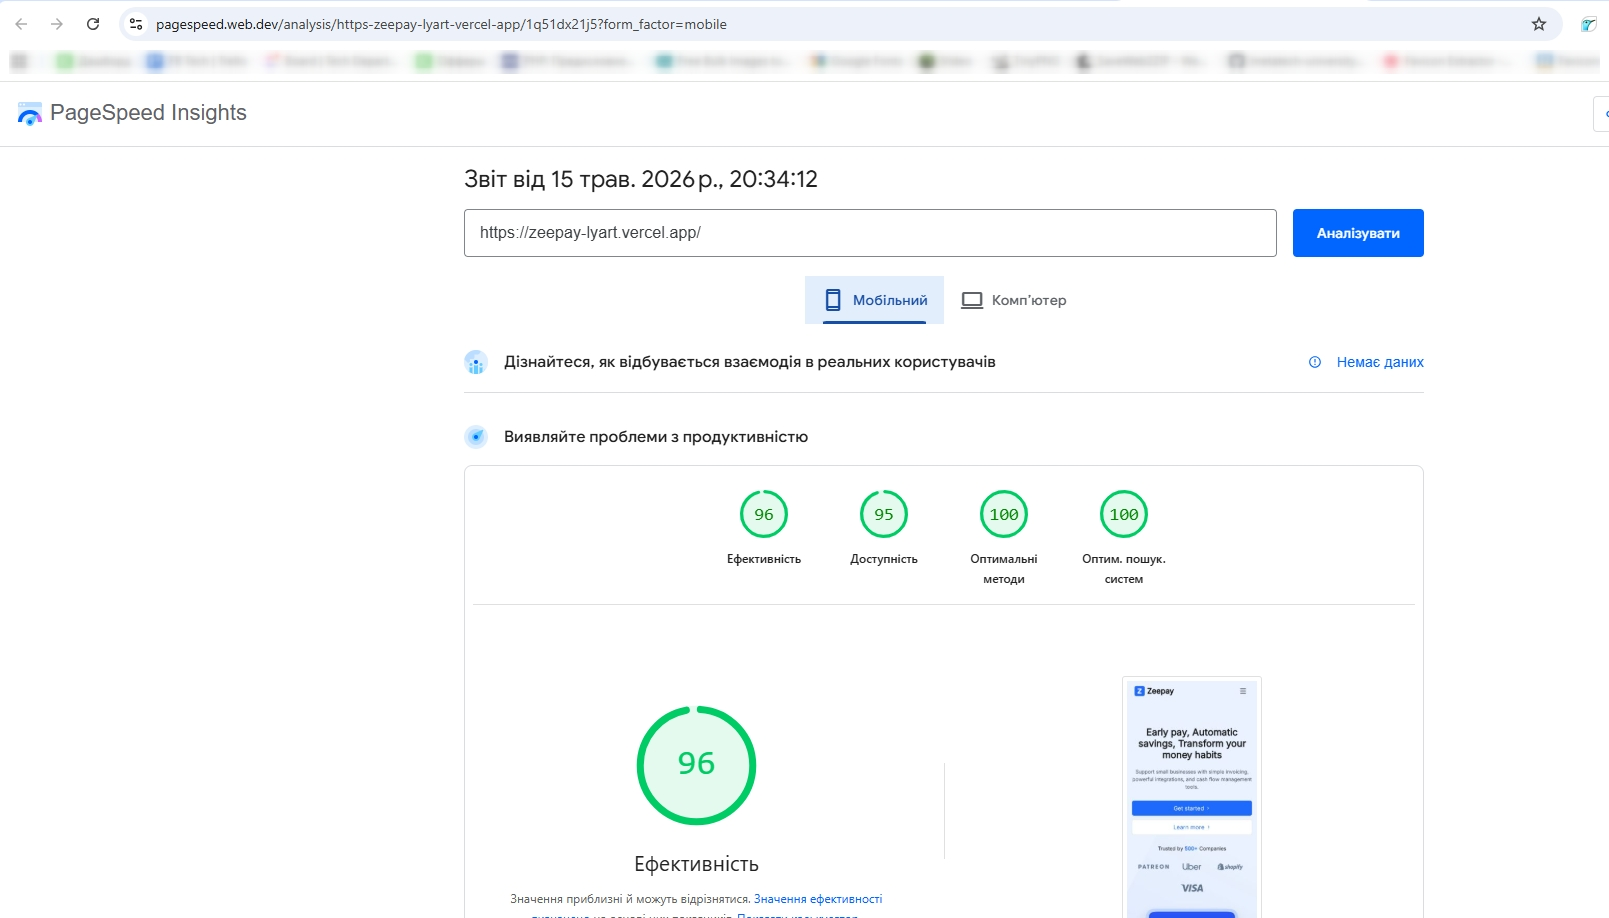
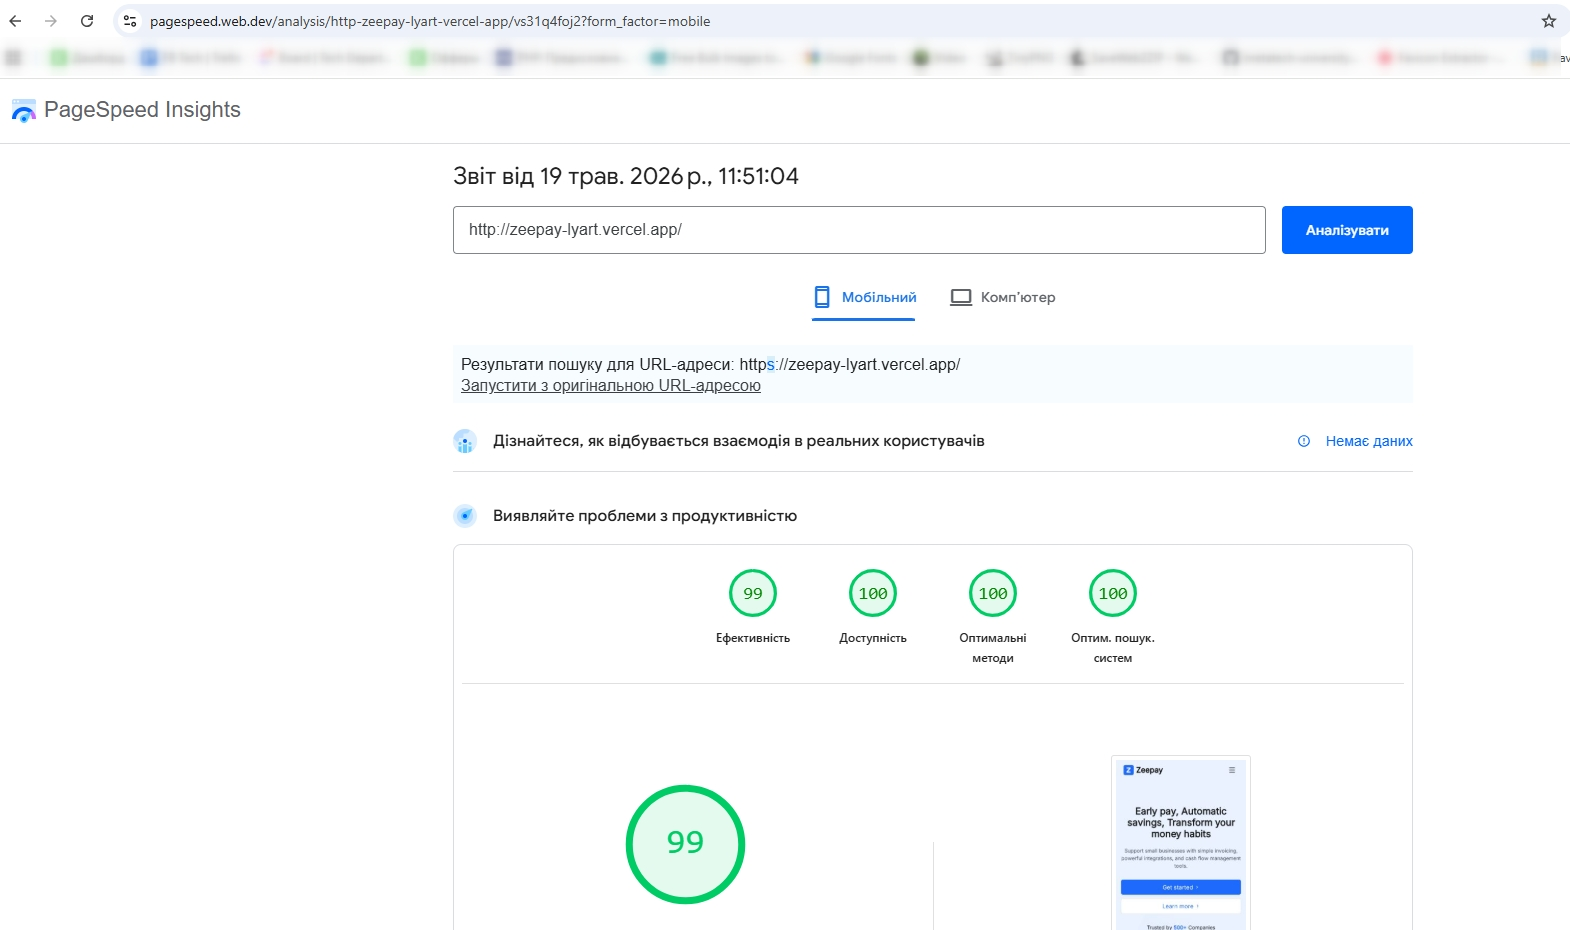
luminance colors

diff --git a/src/styles/global.css b/src/styles/global.css
@@ -9,8 +9,9 @@
   --color-custom-blue-100: #ebf1ff;
   --color-custom-blue-200: #2667ff;
   --color-custom-blue-300: #001a57;
+  --color-custom-blue-400: #2662F3;
   --color-custom-light-100: #f8fafc;
-  --color-custom-grey-100: #64748b;
+  --color-custom-grey-100: #5D6F8D;
 }
 
 @layer base {

diff --git a/README.md b/README.md
@@ -13,7 +13,7 @@ This template is powered by a modern, headless stack: Astro, Tailwind, Daisy UI,
 ## Demo
 
 - ✨ [Live Demo](https://zeepay-lyart.vercel.app/)
-- 💨 [PageSpeed Insights Report](https://pagespeed.web.dev/analysis/https-zeepay-lyart-vercel-app/1q51dx21j5?form_factor=desktop)
+- 💨 [PageSpeed Insights Report](https://pagespeed.web.dev/analysis/http-zeepay-lyart-vercel-app/vs31q4foj2?form_factor=mobile)
 - [Sitemap.xml](https://zeepay-lyart.vercel.app/sitemap-index.xml)
 - [Robots.txt](https://zeepay-lyart.vercel.app/robots.txt)
 - [Schema.org validator](https://search.google.com/test/rich-results/result?id=3nVnmyjOUAPsCPLxHaiebg)
@@ -47,6 +47,11 @@ Pages:
 
 ![mobile](https://github.com/anastasiiaxfr/zeepay/blob/main/public/theme/1.jpg)
 ![desktop](https://github.com/anastasiiaxfr/zeepay/blob/main/public/theme/2.jpg)
+
+## Open Graph Card
+
+![Facebook](https://github.com/anastasiiaxfr/zeepay/blob/main/public/theme/5.jpg)
+![Telegram](https://github.com/anastasiiaxfr/zeepay/blob/main/public/theme/4.jpg)
 
 ## 🚀 Project Structure
 
